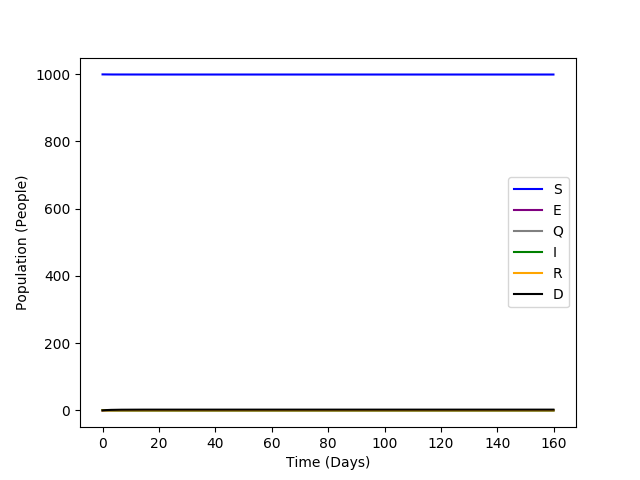
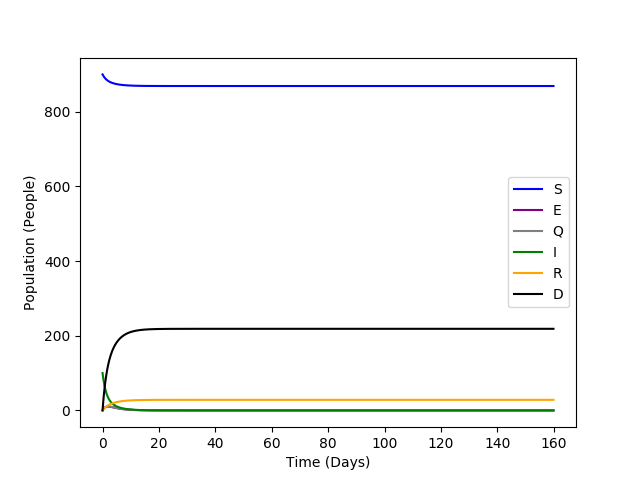
adding files

diff --git a/hrenard_program3.py b/hrenard_program3.py
@@ -29,10 +29,10 @@ def runsim(
 
 	total_pop = 1000
 	
-	S[0] = total_pop - 1
+	S[0] = total_pop - 100
 	E[0] = 0
 	Q[0] = 0
-	I[0] = 1
+	I[0] = 100
 	R[0] = 0
 	D[0] = 0
 
